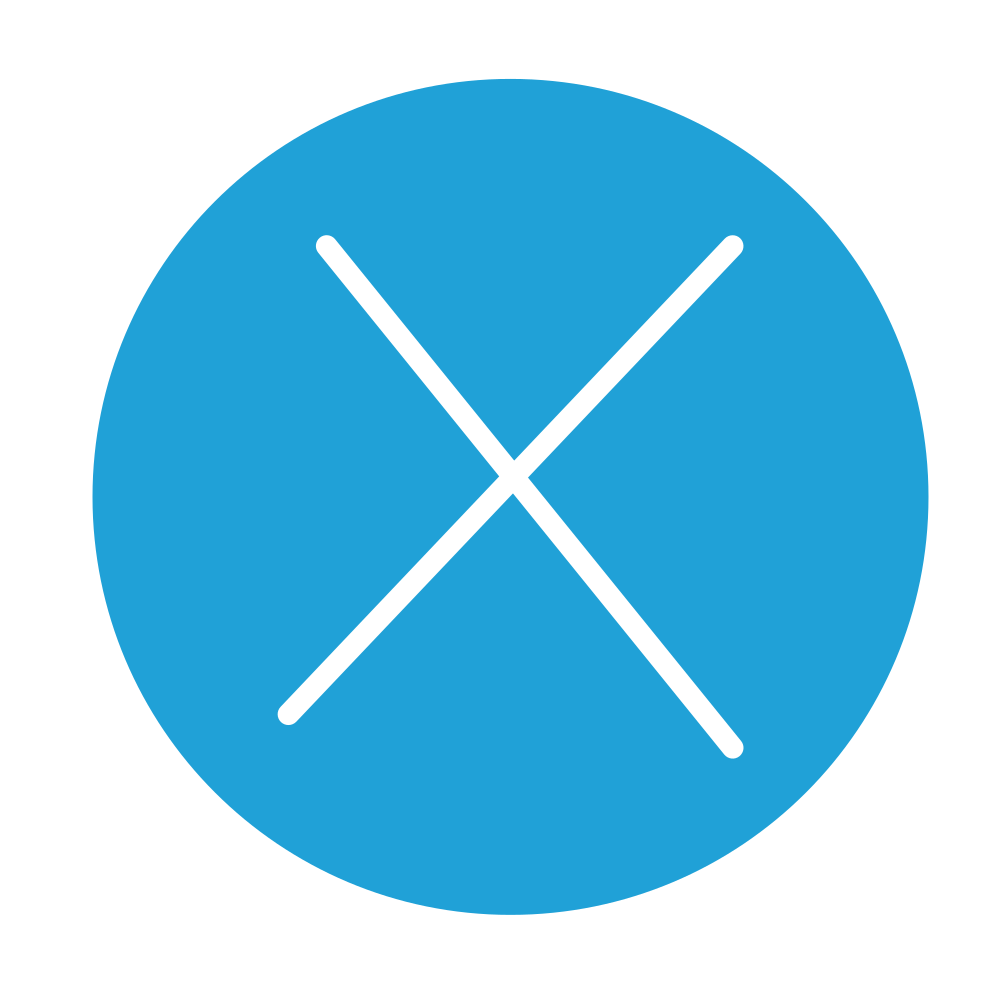
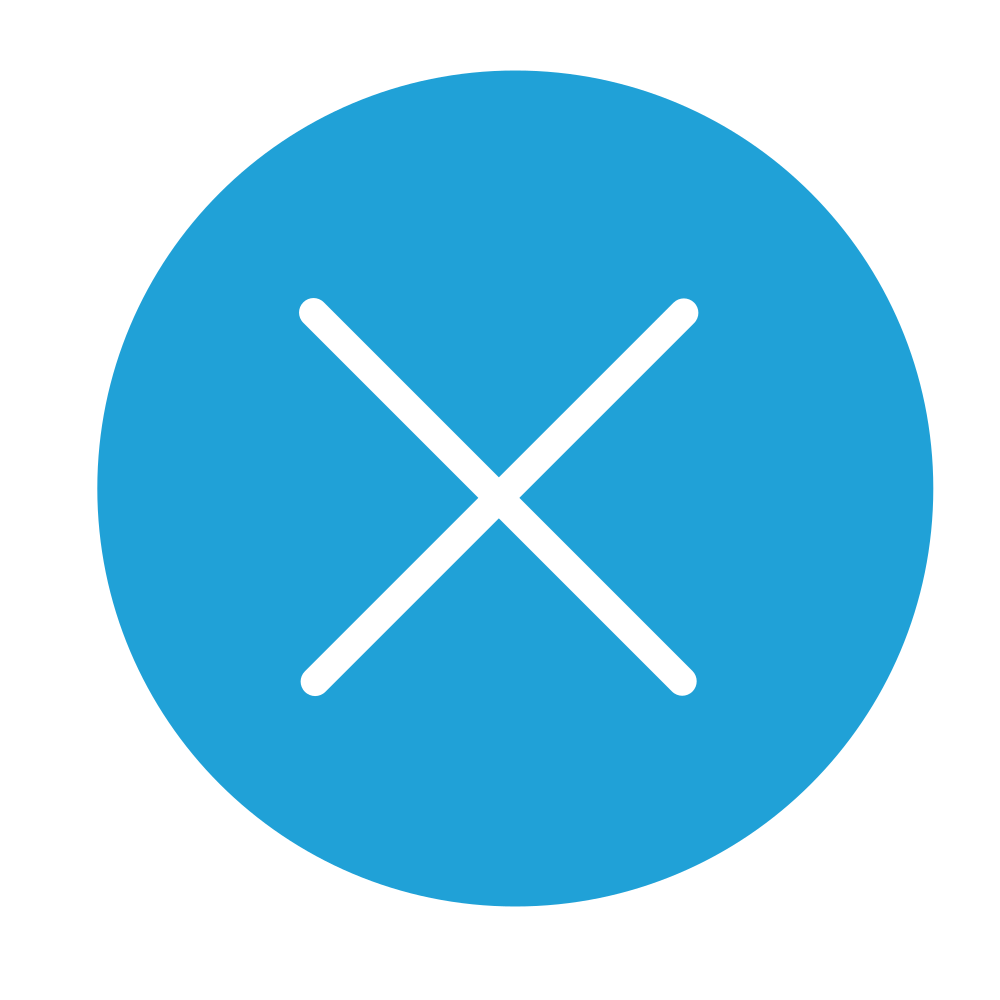
changes

diff --git a/src/Components/Routes/ViewRoute/ViewRoute.js b/src/Components/Routes/ViewRoute/ViewRoute.js
@@ -1,0 +1,187 @@
+// import React from 'react'
+// import { useState } from 'react';
+// import { useEffect } from 'react';
+// import useHttp from '../../../Hooks/use-http';
+// import "./ViewRoute.css";
+
+// let waypts = [];
+// const ViewRoute = (props) => {
+//     const [routeDetails, setRouteDetails] = useState(false);
+//     const authenticateUser = (data) => {
+//         console.log(data);
+//         setRouteDetails(data.RouteDetails);
+//     };
+
+//     const { isLoading, sendRequest } = useHttp();
+
+//     useEffect(() => {
+//         const script = document.createElement("script");
+//         script.src =
+//             "https://maps.googleapis.com/maps/api/js?key=AIzaSyAq88vEj-mQ9idalgeP1IuvulowkkFA-Nk&callback=myInitMap&libraries=places&v=weekly";
+//         script.async = true;
+//         document.body.appendChild(script);
+//     }, []);
+
+//     useEffect(() => {
+//         sendRequest({
+//             url: "/api/v1/Route/GetRouteDetails",
+//             method: "POST",
+//             headers: {
+//                 'Content-Type': 'application/json',
+//             },
+//             body: {
+//                 emailID: sessionStorage.getItem("user"),
+//                 routeID: props.routeId,
+//             }
+//         }, authenticateUser);
+//     }, [sendRequest]);
+
+//     function myInitMap() {
+//         let map = new window.google.maps.Map(document.getElementById("map-viewModal"), {
+//             zoom: 11,
+//             center: { lat: 23.0358311, lng: 72.5579656 },
+//             mapTypeId: window.google.maps.MapTypeId.ROADMAP,
+//             disableDefaultUI: true,
+//             fullscreenControl: true,
+//             zoomControl: true,
+//         });
+//         let directionsService = new window.google.maps.DirectionsService();
+
+//         let directionsRenderer1 = new window.google.maps.DirectionsRenderer({
+//             polylineOptions: polyline1,
+//             suppressMarkers: true,
+//         });
+
+//         directionsRenderer1.setMap(map);
+//         let directionsRenderer2 = new window.google.maps.DirectionsRenderer({
+//             polylineOptions: polyline2,
+//             suppressMarkers: true,
+//         });
+
+//         directionsRenderer2.setMap(map);
+
+//         const request = {
+//             origin: { lat: routeDetails[0].StopLatitude, lng: routeDetails[0].StopLongitude },
+//             destination: { lat:routeDetails[routeDetails.length - 1].StopLatitude, lng: routeDetails[routeDetails.length - 1].StopLongitude }, //LD
+//             waypoints: waypts,
+//             travelMode: window.google.maps.TravelMode.DRIVING,
+//         };
+
+//         // const infoWindow = new window.google.maps.InfoWindow();
+//         // console.log(waypts);
+//         // debugger;
+//         directionsService.route(request, function (response, status) {
+//             console.log("after");
+//             if (status == window.google.maps.DirectionsStatus.OK) {
+//                 directionsRenderer2.setDirections(response); // Add route to the map
+//                 directionsRenderer1.setDirections(response); // Add route to the map
+//                 // console.log(response.routes[0].start_location);
+//             }
+//         });
+
+//         const infoWindow = new window.google.maps.InfoWindow();
+//         let icon;
+//         let myTitle;
+
+//         const assignButtonClickHandler = (e) => {
+//             if (previewRouteFlag) {
+//                 dst.pop();
+//                 // dst.push(waypts.pop().location);
+//                 waypts.pop();
+//                 previewRouteFlag = false;
+//             }
+//             // else {
+//             // previewRouteFlag = false;
+//             if (dst.length > 0)
+//                 waypts.push({
+//                     location: dst[dst.length - 1], //KP
+//                     stopover: true,
+//                 });
+//             console.log(dst);
+//             dst.push({
+//                 lat: filteredData[e.target.parentElement.id].location.lat,
+//                 lng: filteredData[e.target.parentElement.id].location.lng,
+//             });
+//             filteredData[e.target.parentElement.id].status = true;
+//             // studentCount += filteredData[e.target.parentElement.id].name.length;
+//             // if (studentCount > shuttleSeatingCapacity) {
+//             //   studentCount -= filteredData[e.target.parentElement.id].name.length;
+//             //   alert("Shuttle seating capacity exceeded");
+//             // }
+//             // else {
+//             prev_id = e.target.parentElement.id;
+//             // filteredData[e.target.parentElement.id].status = true;
+
+//             myRecord.push(e.target.parentElement.id);
+//             // flightPlanCoordinates.push(
+//             //   {
+//             //     lat: filteredData[e.target.parentElement.id].location.lat,
+//             //     lng: filteredData[e.target.parentElement.id].location.lng
+//             //   });
+//             STOP_DETAILS.push({
+//                 stop: filteredData[e.target.parentElement.id].stop,
+//                 riders: filteredData[e.target.parentElement.id].name,
+//                 lat: filteredData[e.target.parentElement.id].location.lat,
+//                 lng: filteredData[e.target.parentElement.id].location.lng,
+//                 mNumber: filteredData[e.target.parentElement.id].mNumber,
+//             });
+//             myStopNumberInfo[STOP_DETAILS[STOP_DETAILS.length - 1].mNumber[0]] =
+//                 stop_number + 1;
+//             stop_number++;
+            
+//         };
+
+//         // console.log(filteredData);
+//         filteredData.forEach((position, i) => {
+//             // console.log(filteredData[i]);
+//             if (i === 0) {
+//                 icon = startPoint;
+//                 myTitle = `<div><h3>${position.name.toString()}</h3></div>`;
+//             } else {
+//                 // console.log(position.stop.split(",")[0], position.status);
+//                 icon = studentDummyImage;
+//                 if (position.status)
+//                     // myTitle = `<div id="infowindow-container" ><h3>${position.name.toString()}</h3><p id="infowindow-success">Assigned</div>`;
+//                     myTitle = `<div id="infowindow-container" ><h3>${myStopNumberInfo[position.mNumber[0]]
+//                             ? myStopNumberInfo[position.mNumber[0]] + ". "
+//                             : ""
+//                         }${position.stop.split(",")[0]
+//                         }</h3><p id="infowindow-success">Assigned</div>`;
+//                 // myTitle = `<div id="infowindow-container" ><h3>${position.name.toString()}</h3><div id=${i}><span id='infowindow-assign'>Assign rider</span></div></div>`;
+//                 else
+//                     myTitle = `<div><div id="infowindow-container" ><h3>${position.stop.split(",")[0]
+//                         }</h3><div id=${i}><span id='infowindow-assign'>Assign riders</span></div></div><div>${position.name.toString()}</div></div>`;
+//             }
+
+//             const marker = new window.google.maps.Marker({
+//                 position: position.location,
+//                 map,
+//                 myTitle,
+//                 icon,
+//                 optimized: false,
+//             });
+
+//             marker.addListener("mouseover", () => {
+//                 // infoWindow.close();
+//                 infoWindow.setContent(marker.myTitle);
+//                 infoWindow.open(marker.getMap(), marker);
+//                 infoWindow.open(
+//                     setTimeout(() => {
+//                         document
+//                             .getElementById("infowindow-assign")
+//                             .addEventListener("click", assignButtonClickHandler);
+//                     })
+//                 );
+//             });
+//         });
+//     }
+//     window.myInitMap = myInitMap;
+
+//     return (
+//         <div className='viewRouteContainer'>
+//             <div id="map-viewModal"></div>
+//         </div>
+//     )
+// }
+
+// export default ViewRoute

diff --git a/src/Components/Routes/Records.js b/src/Components/Routes/Records.js
@@ -4,12 +4,15 @@ import Loading from "../../Loading/Loading";
 // import Accordian from "./_Accordian";
 import "./Records.css";
 import editIcon from "../../Assets/editIcon.png";
+import viewIcon from "../../Assets/Disable.png";
 import AddRoute from "./AddRoute/RouteInfo";
 import Message from "../../Modal/Message";
+import ViewRoute from "./ViewRoute/ViewRoute";
 
 let routeId = "";
 const Records = ({ isLoading, data, headers }) => {
   const [isEditRouteClicked, setIsEditRouteClicked] = useState(false);
+  const [isViewRouteClicked, setIsViewRouteClicked] = useState(false);
   const [isRouteCreated, setIsRouteCreated] = useState();
 
   const routeCreationStatus = (data) => {
@@ -25,6 +28,11 @@ const Records = ({ isLoading, data, headers }) => {
     routeId = e.target.parentElement.parentElement.children[0].innerText;
     setIsEditRouteClicked(true);
   };
+  const viewRouteClickHandler = (e) => {
+    routeId = e.target.parentElement.parentElement.children[0].innerText;
+    setIsViewRouteClicked(true);
+  }
+
   return (
     <React.Fragment>
       {data[0] ? (
@@ -53,11 +61,16 @@ const Records = ({ isLoading, data, headers }) => {
                     : "Drop"}
                 </td>
                 {sessionStorage.getItem("userType") !== "AccountManager" && (
-                  <td>
+                  <td style={{ display: "flex", justifyContent: "center", gap: "20px", alignItems: "center", height: "50px" }}>
                     <img
                       onClick={editRouteClickHandler}
                       className="edit-route"
                       src={editIcon}
+                    />
+                    <img
+                      onClick={viewRouteClickHandler}
+                      className="edit-route"
+                      src={viewIcon}
                     />
                   </td>
                 )}
@@ -93,6 +106,7 @@ const Records = ({ isLoading, data, headers }) => {
           setIsAddRouteClicked={setIsEditRouteClicked}
         />
       )}
+      {/* {isViewRouteClicked && <ViewRoute routeId={routeId} setIsViewRouteClicked={setIsViewRouteClicked} />} */}
       {isRouteCreated && (
         <Message
           type={isRouteCreated}

diff --git a/src/Components/Routes/AddRoute/StopInfo.js b/src/Components/Routes/AddRoute/StopInfo.js
@@ -471,47 +471,12 @@ const StopInfo = (props) => {
         directionsRenderer2.setDirections(response); // Add route to the map
         directionsRenderer1.setDirections(response); // Add route to the map
         // console.log(response.routes[0].start_location);
-
-        // var leg = response.routes[0];
-
-        //   let marker = new window.google.maps.Marker({
-        //     position: { lat: waypts[0].location.lat(), lng: waypts[0].location.lng() },
-        //     map: map,
-        //     icon: studentDummyImage,
-        //     myTitle: "Jay"
-        //   })
-        //   marker.addListener("mouseover", () => {
-        //     console.log(marker);
-        //     infoWindow.close();
-        //     infoWindow.setContent(marker.myTitle);
-        //     infoWindow.open(marker.getMap(), marker);
-        //   });
       }
     });
 
     const infoWindow = new window.google.maps.InfoWindow();
     let icon;
     let myTitle;
-
-    // const flightPath1 = new window.google.maps.Polyline({
-    //   path: flightPlanCoordinates,
-    //   geodesic: true,
-    //   strokeColor: "black",
-    //   strokeOpacity: 1.0,
-    //   strokeWeight: 7,
-    // });
-
-    // const flightPath = new window.google.maps.Polyline({
-    //   path: flightPlanCoordinates,
-    //   geodesic: true,
-    //   strokeColor: "rgba(34, 137, 203, 255)",
-    //   strokeOpacity: 1.0,
-    //   strokeWeight: 5,
-    // });
-
-    // flightPath1.setMap(map);
-    // flightPath.setMap(map);
-    // console.log(flightPlanCoordinates);
 
     const assignButtonClickHandler = (e) => {
       if (previewRouteFlag) {

diff --git a/src/Components/ChatBot/ChatBot.js b/src/Components/ChatBot/ChatBot.js
@@ -29,7 +29,7 @@ const ChatBot = () => {
   }, [isChatbotOpen]);
 
   const chatInputEnteredClick = () => {
-    answers.greet = ", " + sessionStorage.getItem("adminName");
+    answers.greet += ", " + sessionStorage.getItem("adminName");
     let a = structuredClone(chatBotText);
     let enteredValue = document.getElementById("chatInput").value;
     a.push(enteredValue);

diff --git a/src/Components/Dashboard/LiveTrip.js b/src/Components/Dashboard/LiveTrip.js
@@ -89,7 +89,6 @@ const LiveTrip = (props) => {
   }, []);
 
   useEffect(() => {
-    console.log("script");
     const script = document.createElement("script");
     script.src =
       "https://maps.googleapis.com/maps/api/js?key=AIzaSyAq88vEj-mQ9idalgeP1IuvulowkkFA-Nk&callback=myInitMap&libraries=places&v=weekly";

diff --git a/src/Components/Routes/ViewRoute/ViewRoute.css b/src/Components/Routes/ViewRoute/ViewRoute.css
@@ -1,0 +1,16 @@
+.viewRouteContainer {
+    position: absolute;
+    top: 50%;
+    left: 50%;
+    transform: translate(-50%, -50%);
+    width: 700px;
+    height: 500px;
+    background-color: white;
+    border: 1px solid gray;
+}
+
+#map-viewModal {
+    position: relative;
+    height: 90%;
+    width: 90%;
+}
